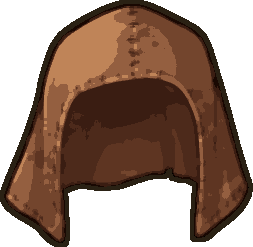
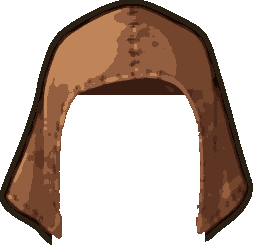
eggwar v2.57 — 로딩 문구 4줄 컷·간파 1줄, 투창병 후드 개구부 투명화+창 1.5배, 투창병 데미지 75→38
Claude-Session: https://claude.ai/code/session_016Knotu6mMMMg8S1HEFVpTR

Changed region(s): [[0.1937, 0.3684, 0.83, 1.0]]

diff --git a/eggwar/index.html b/eggwar/index.html
@@ -17,24 +17,24 @@
 <meta property="og:title" content="계란들의 전쟁 — 계란 부족 비대칭 실시간 대전">
 <meta property="og:description" content="계란 전사들의 전쟁. 진형을 짜는 사람과 영웅을 모는 사람이 같은 판에서 싸운다.">
 <meta property="og:type" content="website">
-<link rel="stylesheet" href="css/style.css?v=2.56">
+<link rel="stylesheet" href="css/style.css?v=2.57">
 
 <!-- 설치(PWA). 홈 화면에서 열면 주소창이 사라져 뷰포트가 흔들리지 않는다 —
      기종별 레이아웃 사고의 원인을 제거하는 것이 목적이다.
      viewport-fit=cover 는 일부러 넣지 않는다: 노치 아래로 캔버스가 파고들면
      letterbox 계산이 또 어긋난다. standalone 만으로 주소창 문제는 해결된다. -->
-<link rel="manifest" href="manifest.json?v=2.56">
+<link rel="manifest" href="manifest.json?v=2.57">
 <meta name="theme-color" content="#123f96">
 <meta name="mobile-web-app-capable" content="yes">
 <meta name="apple-mobile-web-app-capable" content="yes">
 <meta name="apple-mobile-web-app-title" content="계란들의 전쟁">
 <meta name="apple-mobile-web-app-status-bar-style" content="default">
-<link rel="apple-touch-icon" href="icons/apple-touch-icon.png?v=2.56">
-<link rel="icon" type="image/png" sizes="192x192" href="icons/icon-192.png?v=2.56">
+<link rel="apple-touch-icon" href="icons/apple-touch-icon.png?v=2.57">
+<link rel="icon" type="image/png" sizes="192x192" href="icons/icon-192.png?v=2.57">
 </head>
 <body>
 <div id="game"></div>
-<div id="ver">v2.56</div>
+<div id="ver">v2.57</div>
 <div id="rotate">
   <div>
     <div id="rotate-icon">📱</div>
@@ -59,118 +59,118 @@
         crossorigin="anonymous" referrerpolicy="no-referrer"></script>
 <!-- Phaser 의 타원 그리기가 호출마다 만들던 쓰레기를 없앤다(2026-08-05).
      ⚠ Phaser **바로 뒤**여야 한다 — 프로토타입을 갈아끼우므로 어떤 씬보다 먼저 돌아야 한다. -->
-<script src="js/gfxpool.js?v=2.56"></script>
+<script src="js/gfxpool.js?v=2.57"></script>
 <!-- 세로에서 게임을 90도 눕혀 가로로 — 잠금 API 없는 기기의 정답(js/rot90.js 주석) -->
-<script src="js/rot90.js?v=2.56"></script>
-<script src="js/config.js?v=2.56"></script>
-<script src="js/store.js?v=2.56"></script>
-<script src="js/pwa.js?v=2.56"></script>
-<script src="js/sound.js?v=2.56"></script>
-<script src="js/music.js?v=2.56"></script>
-<script src="js/api.js?v=2.56"></script>
-<script src="js/account.js?v=2.56"></script>
-<script src="js/score.js?v=2.56"></script>
-<script src="js/iso.js?v=2.56"></script>
-<script src="js/layout.js?v=2.56"></script>
-<script src="js/learn.js?v=2.56"></script>
-<script src="js/profile.js?v=2.56"></script>
-<script src="js/autoformation.js?v=2.56"></script>
-<script src="js/tower.js?v=2.56"></script>
-<script src="js/towerlearn.js?v=2.56"></script>
-<script src="js/defendtower.js?v=2.56"></script>
-<script src="js/towerrun.js?v=2.56"></script>
+<script src="js/rot90.js?v=2.57"></script>
+<script src="js/config.js?v=2.57"></script>
+<script src="js/store.js?v=2.57"></script>
+<script src="js/pwa.js?v=2.57"></script>
+<script src="js/sound.js?v=2.57"></script>
+<script src="js/music.js?v=2.57"></script>
+<script src="js/api.js?v=2.57"></script>
+<script src="js/account.js?v=2.57"></script>
+<script src="js/score.js?v=2.57"></script>
+<script src="js/iso.js?v=2.57"></script>
+<script src="js/layout.js?v=2.57"></script>
+<script src="js/learn.js?v=2.57"></script>
+<script src="js/profile.js?v=2.57"></script>
+<script src="js/autoformation.js?v=2.57"></script>
+<script src="js/tower.js?v=2.57"></script>
+<script src="js/towerlearn.js?v=2.57"></script>
+<script src="js/defendtower.js?v=2.57"></script>
+<script src="js/towerrun.js?v=2.57"></script>
 <!-- 영구 캐릭터(2026-08-01) — 탑이 더는 towerrun.js 의 도전(run) 개념을 안 쓴다.
      towerrun.js 는 대전(arenabuild.js)이 가격표를 빌려 쓰므로 그대로 둔다. -->
-<script src="js/towerchar.js?v=2.56"></script>
-<script src="js/droppopup.js?v=2.56"></script>
+<script src="js/towerchar.js?v=2.57"></script>
+<script src="js/droppopup.js?v=2.57"></script>
 <!-- 전장 말풍선(2026-08-22) — 적이 영웅을 발견하면 닉네임 부르며 도발한다. 순수 데이터. -->
-<script src="js/banter.js?v=2.56"></script>
-<script src="js/towershopitems.js?v=2.56"></script>
+<script src="js/banter.js?v=2.57"></script>
+<script src="js/towershopitems.js?v=2.57"></script>
 <!-- 통곡의 탑 대개편 — 층 배치 원형 / 층 조건.
      towerrun.js 뒤에 둔다: 둘 다 `TowerRun.get().seed` 를 읽어 원형·조건을 정한다. -->
-<script src="js/towercurriculum.js?v=2.56"></script>
-<script src="js/towerplan.js?v=2.56"></script>
-<script src="js/towerrule.js?v=2.56"></script>
+<script src="js/towercurriculum.js?v=2.57"></script>
+<script src="js/towerplan.js?v=2.57"></script>
+<script src="js/towerrule.js?v=2.57"></script>
 <!-- 대개편 2단계 — 구슬 효과표(내 쪽 행동) / 층 목표(이기는 길).
      두 갈래 문은 제거했다(2026-07-31). towerboon.js 는 이제 **효과 정의만** 담당하고,
      얻는 방법은 js/orb.js 가 쥔다. towerobjective 는 순서 자유이나 함께 둔다. -->
-<script src="js/towerboon.js?v=2.56"></script>
-<script src="js/towerobjective.js?v=2.56"></script>
-<script src="js/unitlevel.js?v=2.56"></script>
-<script src="js/arena.js?v=2.56"></script>
-<script src="js/rtscore.js?v=2.56"></script>
+<script src="js/towerboon.js?v=2.57"></script>
+<script src="js/towerobjective.js?v=2.57"></script>
+<script src="js/unitlevel.js?v=2.57"></script>
+<script src="js/arena.js?v=2.57"></script>
+<script src="js/rtscore.js?v=2.57"></script>
 <!-- 실시간 준비 흐름(2026-08-22) — 역할 확정 후 60초 준비 단계의 전역 상태 -->
-<script src="js/rtflow.js?v=2.56"></script>
-<script src="js/arenabuild.js?v=2.56"></script>
-<script src="js/units.js?v=2.56"></script>
-<script src="js/heroes.js?v=2.56"></script>
-<script src="js/items.js?v=2.56"></script>
-<script src="js/formations.js?v=2.56"></script>
+<script src="js/rtflow.js?v=2.57"></script>
+<script src="js/arenabuild.js?v=2.57"></script>
+<script src="js/units.js?v=2.57"></script>
+<script src="js/heroes.js?v=2.57"></script>
+<script src="js/items.js?v=2.57"></script>
+<script src="js/formations.js?v=2.57"></script>
 <!-- 실시간 대전 통신층(P3) — BASE 가 살아 있으면 켜진다. 호출부는 versus 계열 씬. -->
-<script src="js/netroom.js?v=2.56"></script>
-<script src="js/netrtc.js?v=2.56"></script>
-<script src="js/lockstep.js?v=2.56"></script>
-<script src="js/detmath.js?v=2.56"></script>
-<script src="js/combat.js?v=2.56"></script>
-<script src="js/input.js?v=2.56"></script>
-<script src="js/touchpad.js?v=2.56"></script>
-<script src="js/aihero.js?v=2.56"></script>
-<script src="js/ui.js?v=2.56"></script>
-<script src="js/ui-theme.js?v=2.56"></script>
-<script src="js/ui-hud.js?v=2.56"></script>
-<script src="js/theme-a.js?v=2.56"></script>
-<script src="js/theme-b.js?v=2.56"></script>
-<script src="js/theme-c.js?v=2.56"></script>
-<script src="js/theme-switch.js?v=2.56"></script>
-<script src="js/modal.js?v=2.56"></script>
-<script src="js/eggart.js?v=2.56"></script>
-<script src="js/lobbyart.js?v=2.56"></script>
-<script src="js/tutorial.js?v=2.56"></script>
-<script src="js/bossbank.js?v=2.56"></script>
+<script src="js/netroom.js?v=2.57"></script>
+<script src="js/netrtc.js?v=2.57"></script>
+<script src="js/lockstep.js?v=2.57"></script>
+<script src="js/detmath.js?v=2.57"></script>
+<script src="js/combat.js?v=2.57"></script>
+<script src="js/input.js?v=2.57"></script>
+<script src="js/touchpad.js?v=2.57"></script>
+<script src="js/aihero.js?v=2.57"></script>
+<script src="js/ui.js?v=2.57"></script>
+<script src="js/ui-theme.js?v=2.57"></script>
+<script src="js/ui-hud.js?v=2.57"></script>
+<script src="js/theme-a.js?v=2.57"></script>
+<script src="js/theme-b.js?v=2.57"></script>
+<script src="js/theme-c.js?v=2.57"></script>
+<script src="js/theme-switch.js?v=2.57"></script>
+<script src="js/modal.js?v=2.57"></script>
+<script src="js/eggart.js?v=2.57"></script>
+<script src="js/lobbyart.js?v=2.57"></script>
+<script src="js/tutorial.js?v=2.57"></script>
+<script src="js/bossbank.js?v=2.57"></script>
 <!-- 보스 관절 리깅(2026-08-22) — 부위 분할 애니메이션. bossbank 이 위임한다. -->
-<script src="js/bossrig.js?v=2.56"></script>
-<script src="js/gearbank.js?v=2.56"></script>
-<script src="js/bossart.js?v=2.56"></script>
-<script src="js/dragonasset.js?v=2.56"></script>
-<script src="js/itemart.js?v=2.56"></script>
-<script src="js/coin.js?v=2.56"></script>
+<script src="js/bossrig.js?v=2.57"></script>
+<script src="js/gearbank.js?v=2.57"></script>
+<script src="js/bossart.js?v=2.57"></script>
+<script src="js/dragonasset.js?v=2.57"></script>
+<script src="js/itemart.js?v=2.57"></script>
+<script src="js/coin.js?v=2.57"></script>
 <!-- 구슬 — 적을 잡으면 확률로 떨어지는 능력 구슬. coin.js 와 같은 문법이라 뒤에 둔다. -->
-<script src="js/orb.js?v=2.56"></script>
+<script src="js/orb.js?v=2.57"></script>
 <!-- 치유 구역(2026-08-01) — 물약을 대신한다. orb.js 와 같은 문법. -->
-<script src="js/healzone.js?v=2.56"></script>
+<script src="js/healzone.js?v=2.57"></script>
 <!-- 타격 파티클(2026-08-04) — 텍스처를 런타임에 구워 자산 0KB 를 지킨다. -->
-<script src="js/hitfx.js?v=2.56"></script>
-<script src="js/skillfx.js?v=2.56"></script>
-<script src="js/scenes/loading.js?v=2.56"></script>
-<script src="js/scenes/login.js?v=2.56"></script>
-<script src="js/scenes/menu.js?v=2.56"></script>
-<script src="js/scenes/select.js?v=2.56"></script>
-<script src="js/scenes/build.js?v=2.56"></script>
-<script src="js/scenes/draft.js?v=2.56"></script>
-<script src="js/scenes/draft-mobile.js?v=2.56"></script>
-<script src="js/scenes/battle.js?v=2.56"></script>
-<script src="js/scenes/defend.js?v=2.56"></script>
-<script src="js/scenes/defend-tower.js?v=2.56"></script>
-<script src="js/scenes/versus.js?v=2.56"></script>
-<script src="js/scenes/rtlobby.js?v=2.56"></script>
-<script src="js/scenes/rtprep.js?v=2.56"></script>
-<script src="js/scenes/result.js?v=2.56"></script>
+<script src="js/hitfx.js?v=2.57"></script>
+<script src="js/skillfx.js?v=2.57"></script>
+<script src="js/scenes/loading.js?v=2.57"></script>
+<script src="js/scenes/login.js?v=2.57"></script>
+<script src="js/scenes/menu.js?v=2.57"></script>
+<script src="js/scenes/select.js?v=2.57"></script>
+<script src="js/scenes/build.js?v=2.57"></script>
+<script src="js/scenes/draft.js?v=2.57"></script>
+<script src="js/scenes/draft-mobile.js?v=2.57"></script>
+<script src="js/scenes/battle.js?v=2.57"></script>
+<script src="js/scenes/defend.js?v=2.57"></script>
+<script src="js/scenes/defend-tower.js?v=2.57"></script>
+<script src="js/scenes/versus.js?v=2.57"></script>
+<script src="js/scenes/rtlobby.js?v=2.57"></script>
+<script src="js/scenes/rtprep.js?v=2.57"></script>
+<script src="js/scenes/result.js?v=2.57"></script>
 <!-- 이어하기(2026-08-05) — 계정이 없어 캐릭터가 기기에 갇히는 구멍을 메운다.
      Store/Account 뒤, 씬보다 앞. -->
 <!-- 닉네임+PIN(2026-08-05). ⚠ 서버(/auth/*)가 아직 없을 수 있다 —
      js/auth.js 가 404 를 만나면 예전처럼 PIN 없이 동작한다. -->
-<script src="js/auth.js?v=2.56"></script>
-<script src="js/pinui.js?v=2.56"></script>
-<script src="js/transfer.js?v=2.56"></script>
-<script src="js/transferui.js?v=2.56"></script>
-<script src="js/scenes/tower.js?v=2.56"></script>
+<script src="js/auth.js?v=2.57"></script>
+<script src="js/pinui.js?v=2.57"></script>
+<script src="js/transfer.js?v=2.57"></script>
+<script src="js/transferui.js?v=2.57"></script>
+<script src="js/scenes/tower.js?v=2.57"></script>
 <!-- 영구 캐릭터 대개편(2026-08-01) — 상점(아이템/스킬/능력치 탭) + 도전 진입 로딩. -->
-<script src="js/scenes/towershop.js?v=2.56"></script>
-<script src="js/scenes/towerloading.js?v=2.56"></script>
-<script src="js/onboard.js?v=2.56"></script>
-<script src="js/scenes/rank.js?v=2.56"></script>
-<script src="js/scenes/fitscene.js?v=2.56"></script>
-<script src="js/scenes/admin.js?v=2.56"></script>
-<script src="js/main.js?v=2.56"></script>
+<script src="js/scenes/towershop.js?v=2.57"></script>
+<script src="js/scenes/towerloading.js?v=2.57"></script>
+<script src="js/onboard.js?v=2.57"></script>
+<script src="js/scenes/rank.js?v=2.57"></script>
+<script src="js/scenes/fitscene.js?v=2.57"></script>
+<script src="js/scenes/admin.js?v=2.57"></script>
+<script src="js/main.js?v=2.57"></script>
 </body>
 </html>

diff --git a/eggwar/js/scenes/towerloading.js b/eggwar/js/scenes/towerloading.js
@@ -212,7 +212,7 @@ GAME.towerAdvice = function (formation, heroKey) {
   //  끊어라'가 들어 있어 두 정보가 한 줄에 산다. 보스 층은 ☠ 줄이 있으니 1줄만.
   //  ⚠ 🎯 는 쓰지 않는다 — 이 화면에서 **층 목표**가 이미 그 아이콘을 쓴다.
   var order = GAME.TOWER_SKILL_PRIORITY || GAME.TOWER_THREAT_ORDER;
-  var wantSkill = (formation && formation.boss) ? 1 : 2;
+  var wantSkill = 1;   //  2026-08-23 태현님: "글자 너무 과다" — 층 불문 1줄
   for (var i = 0; i < order.length && wantSkill > 0; i++) {
     if (present[order[i]] && GAME.TOWER_SKILL_DESC[order[i]]) {
       out.push('🗡 ' + GAME.TOWER_SKILL_DESC[order[i]]);
@@ -387,7 +387,8 @@ GAME.TowerLoadingScene.prototype.create = function () {
     if (formation && formation.readNote) lines.push(formation.readNote);
     //  줄이 넘치면 **뒤에서부터** 자른다 — 뒤가 배치·학습이라 태현님이 정한
     //  중요도(적 설명 > 배치·학습) 그대로 잘린다. 7줄이 폰 가로 그림 띠의 하한이다.
-    if (lines.length > 7) lines.length = 7;
+    //  2026-08-23 태현님: "글자 너무 과다" — 상한 7 → 4줄.
+    if (lines.length > 4) lines.length = 4;
   }
   lines = lines.filter(function (s) { return s; });
 

diff --git a/eggwar/js/profile.js b/eggwar/js/profile.js
@@ -118,9 +118,12 @@ GAME.Profile = {
     var dodgeNote = p.dodge > 0.65
       ? '  회피가 좋아 피할 수 없는 공격의 비중을 올렸습니다.'
       : (p.dodge < 0.35 ? '  회피가 약해 광역 공격을 늘렸습니다.' : '');
+    //  2026-08-23 태현님: "로딩화면 글자 너무 과다" — 3줄 → **1줄**로 압축.
+    //  무엇을 늘렸는지(counter)는 뺀다 — 간파의 존재와 강도만 알리면 충분하다.
+    //  (counter/dodgeNote 계산은 위에 남긴다 — 되돌릴 때 문구가 그대로 살아난다.)
+    void counter; void dodgeNote;
     return '👁 탑이 당신을 읽었습니다 — ' + p.styleLabel + ' · ' + p.dodgeLabel +
-           '\n' + counter + '.' + dodgeNote +
-           '\n(관측 ' + p.battles + '판 · 간파 강도 ' + mul.toFixed(1) + '배)';
+           ' (간파 ' + mul.toFixed(1) + '배)';
   },
 
   reset: function () {

diff --git a/eggwar/js/eggart.js b/eggwar/js/eggart.js
@@ -477,7 +477,7 @@ var SM = 10;
     hookspear:    { dx: 0.89, dy: -0.31, w: 0.82, h: 2.87 },
     stonesword:   { dx: 0.71, dy: 0.13, w: 0.49, h: 1.58 },
     handaxe:      { dx: -0.82, dy: 0.24, w: 0.76, h: 1.58 },
-    javelin:      { dx: -0.80, dy: 0.15, w: 0.17, h: 1.33 }
+    javelin:      { dx: -0.80, dy: 0.15, w: 0.26, h: 1.95 }   //  2026-08-23 태현님: "창 크기 키워" — 1.5배
   };
   //  피팅 값을 방향에 맞게 얹는다 — 옆 기준 화면 배치를 그대로 쓰고, 왼쪽을 볼 때만
   //  dx 미러. place 형(각도 없는 착용물) 전용.

diff --git a/eggwar/js/gearbank.js b/eggwar/js/gearbank.js
@@ -49,7 +49,7 @@
     helmPot:    { src: 'assets/helm/pot.png?v=2.38' },
     helmBand:   { src: 'assets/helm/band.png?v=2.38' },
     helmCap:    { src: 'assets/helm/cap.png?v=2.38' },
-    helmHood:   { src: 'assets/helm/hood.png?v=2.38' },
+    helmHood:   { src: 'assets/helm/hood.png?v=2.57' },   //  개구부 투명화(2026-08-23)
     helmLeaf:   { src: 'assets/helm/leaf.png?v=2.38' },
     helmBucket: { src: 'assets/helm/bucket.png?v=2.38' },
     helmHorns:  { src: 'assets/helm/horns.png?v=2.38' },

diff --git a/eggwar/js/main.js b/eggwar/js/main.js
@@ -1,6 +1,6 @@
 window.GAME = window.GAME || {};
 
-GAME.VERSION = 'v2.56';
+GAME.VERSION = 'v2.57';
 
 // 주소에 ?admin=1 을 붙이면 닉네임 관리 화면에 들어갈 수 있다
 GAME.isAdmin = /[?&]admin=1/.test(location.search || '');
